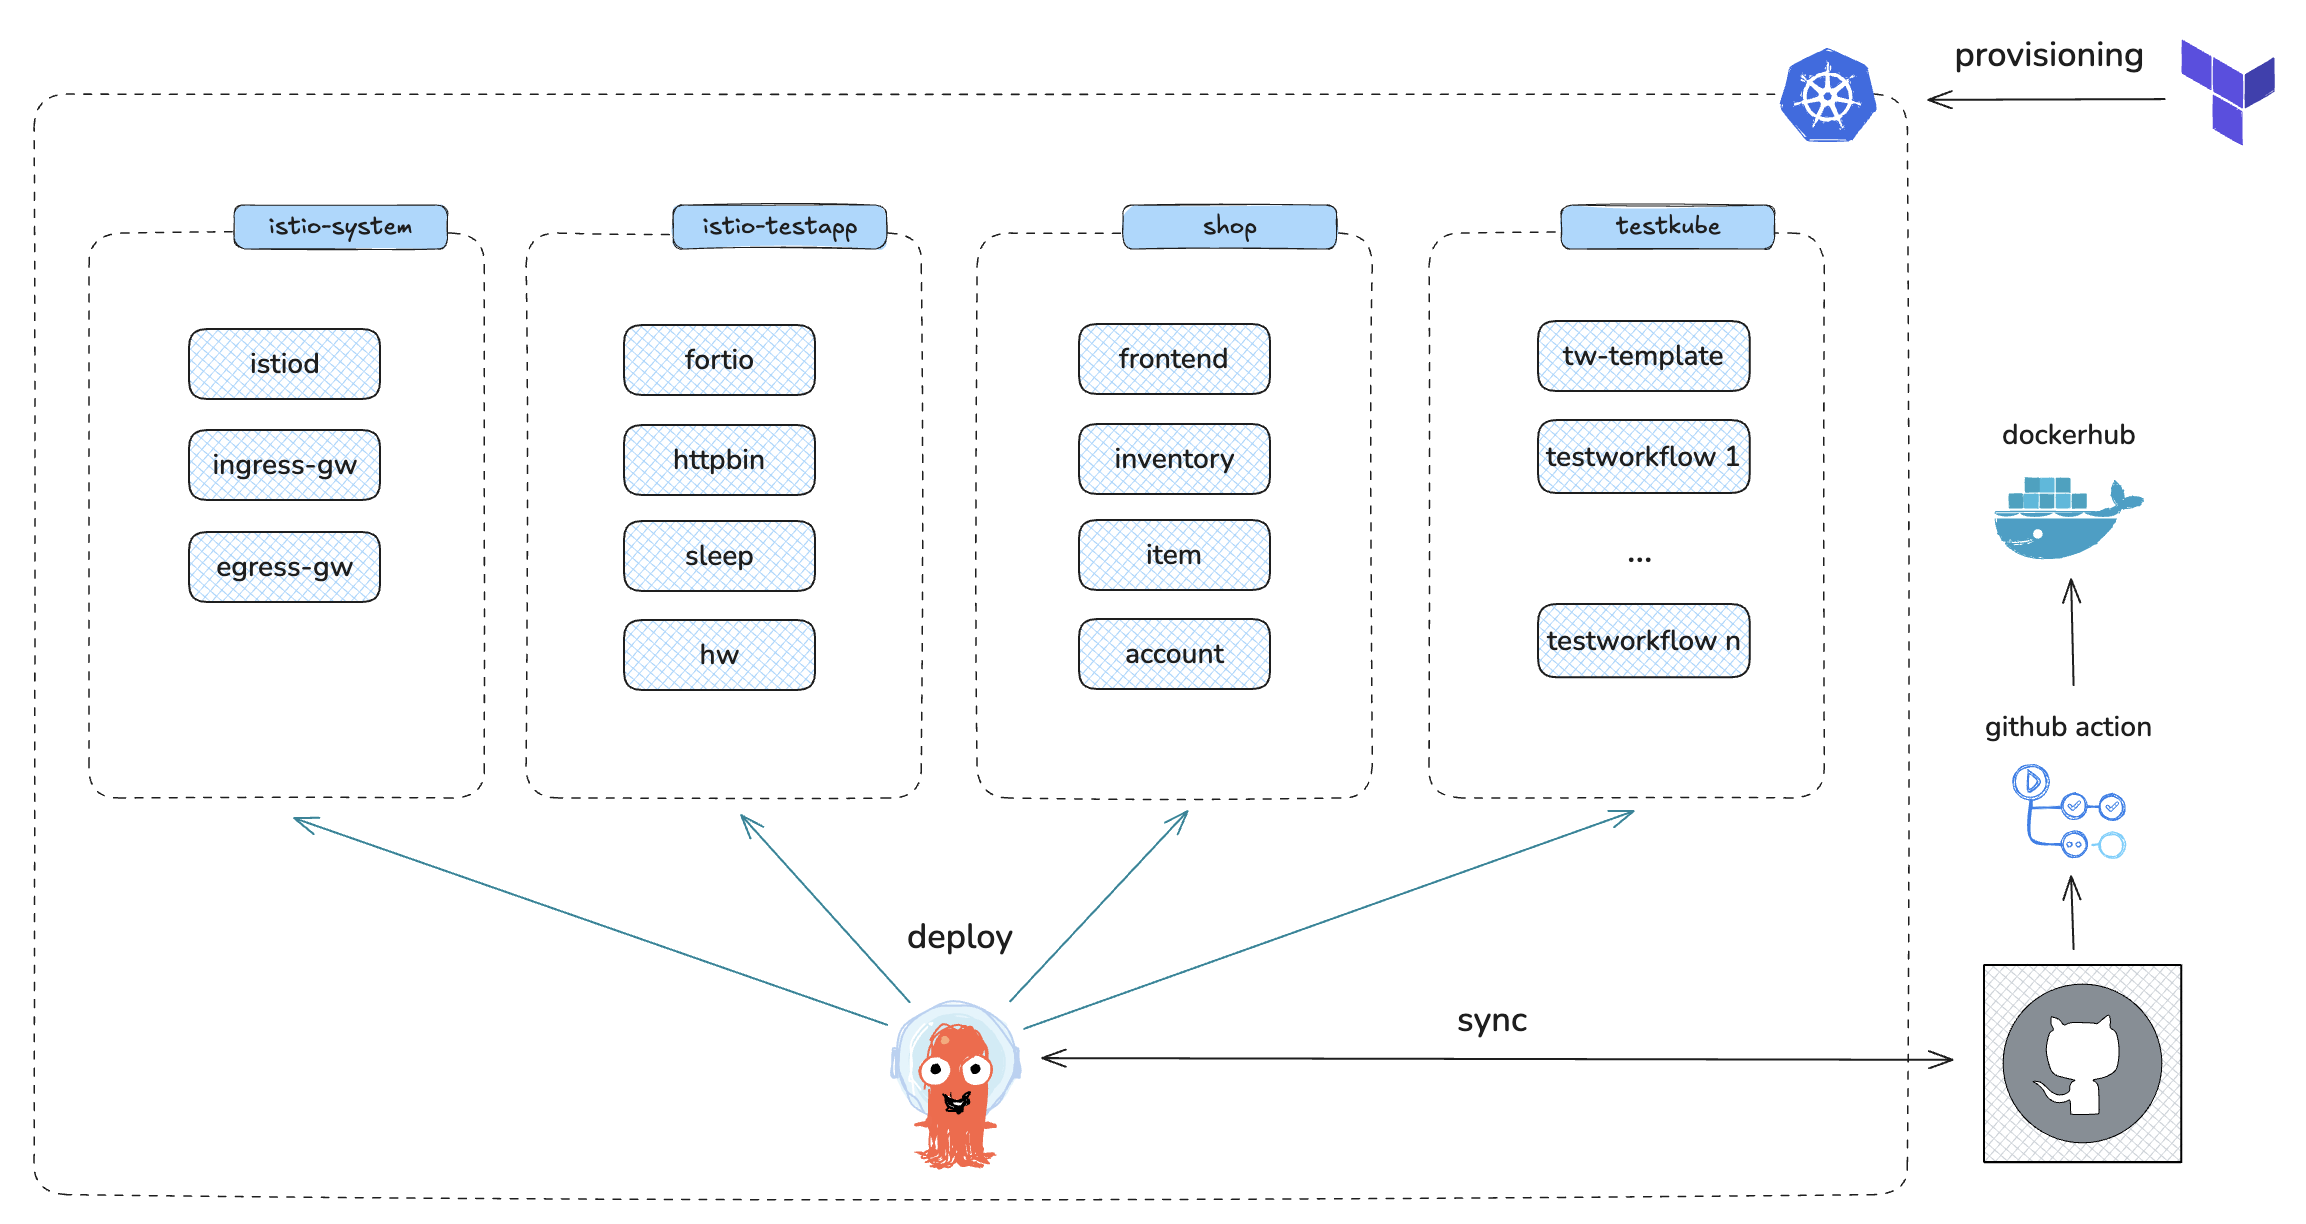
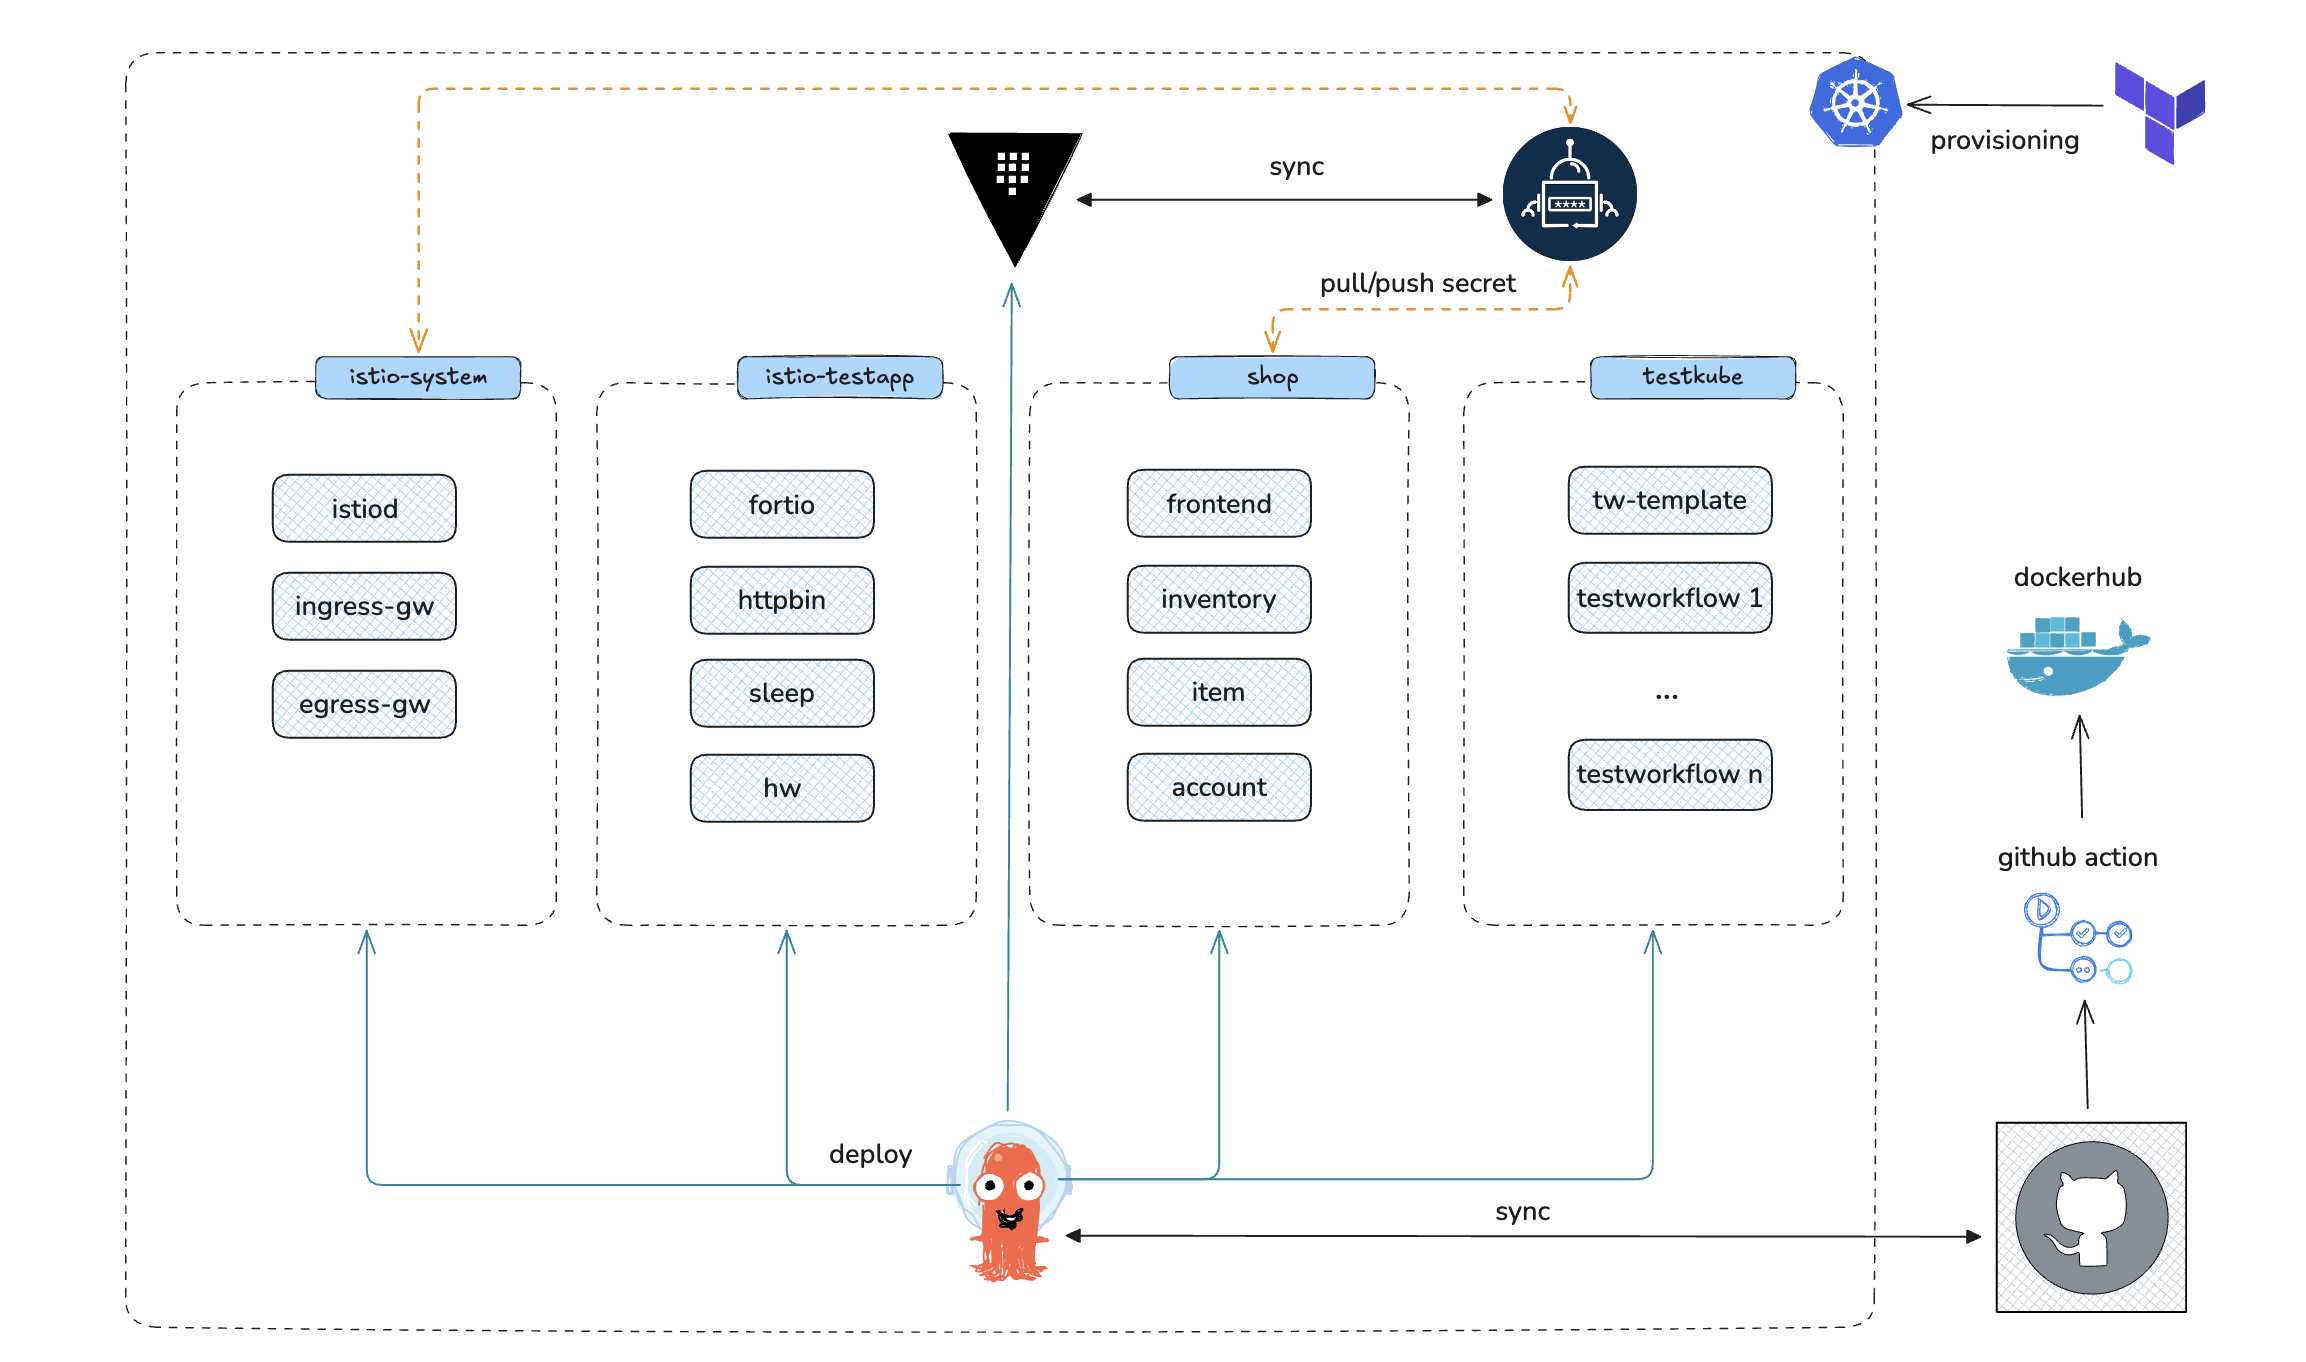
docs: update project description

diff --git a/README.md b/README.md
@@ -1,5 +1,5 @@
 # Microservice Kiosk 🍬
-Welcome to the Microservice Kiosk project! This repository is a hands-on exploration of modern cloud-native technologies, including ArgoCD, Istio as a service mesh, HashiCorp Vault, Terraform, Google Cloud Platform (GCP), and more. The goal is to deepen understanding and practical experience with these tools in a microservices architecture.
+Welcome to the Microservice Kiosk project! This repository is a hands-on exploration of modern cloud-native technologies, including ArgoCD, Istio as a service mesh, HashiCorp Vault, Terraform, Google Cloud Platform (GCP), and more. The goal is to deepen understanding and practical experience with these tools in a microservices architecture. In a typical microservices architecture, each service is often stored in its own repository. However, for the purpose of this project, I have consolidated all important source code into one repo to simplify management.
 
 ## Table of Contents
 - [Cluster Setup](cluster/README.md)
@@ -18,6 +18,7 @@ Welcome to the Microservice Kiosk project! This repository is a hands-on explora
 - shop
 - testkube
 - argocd
+- vault
 
 ### CI/CD
 - CI: Github Action
